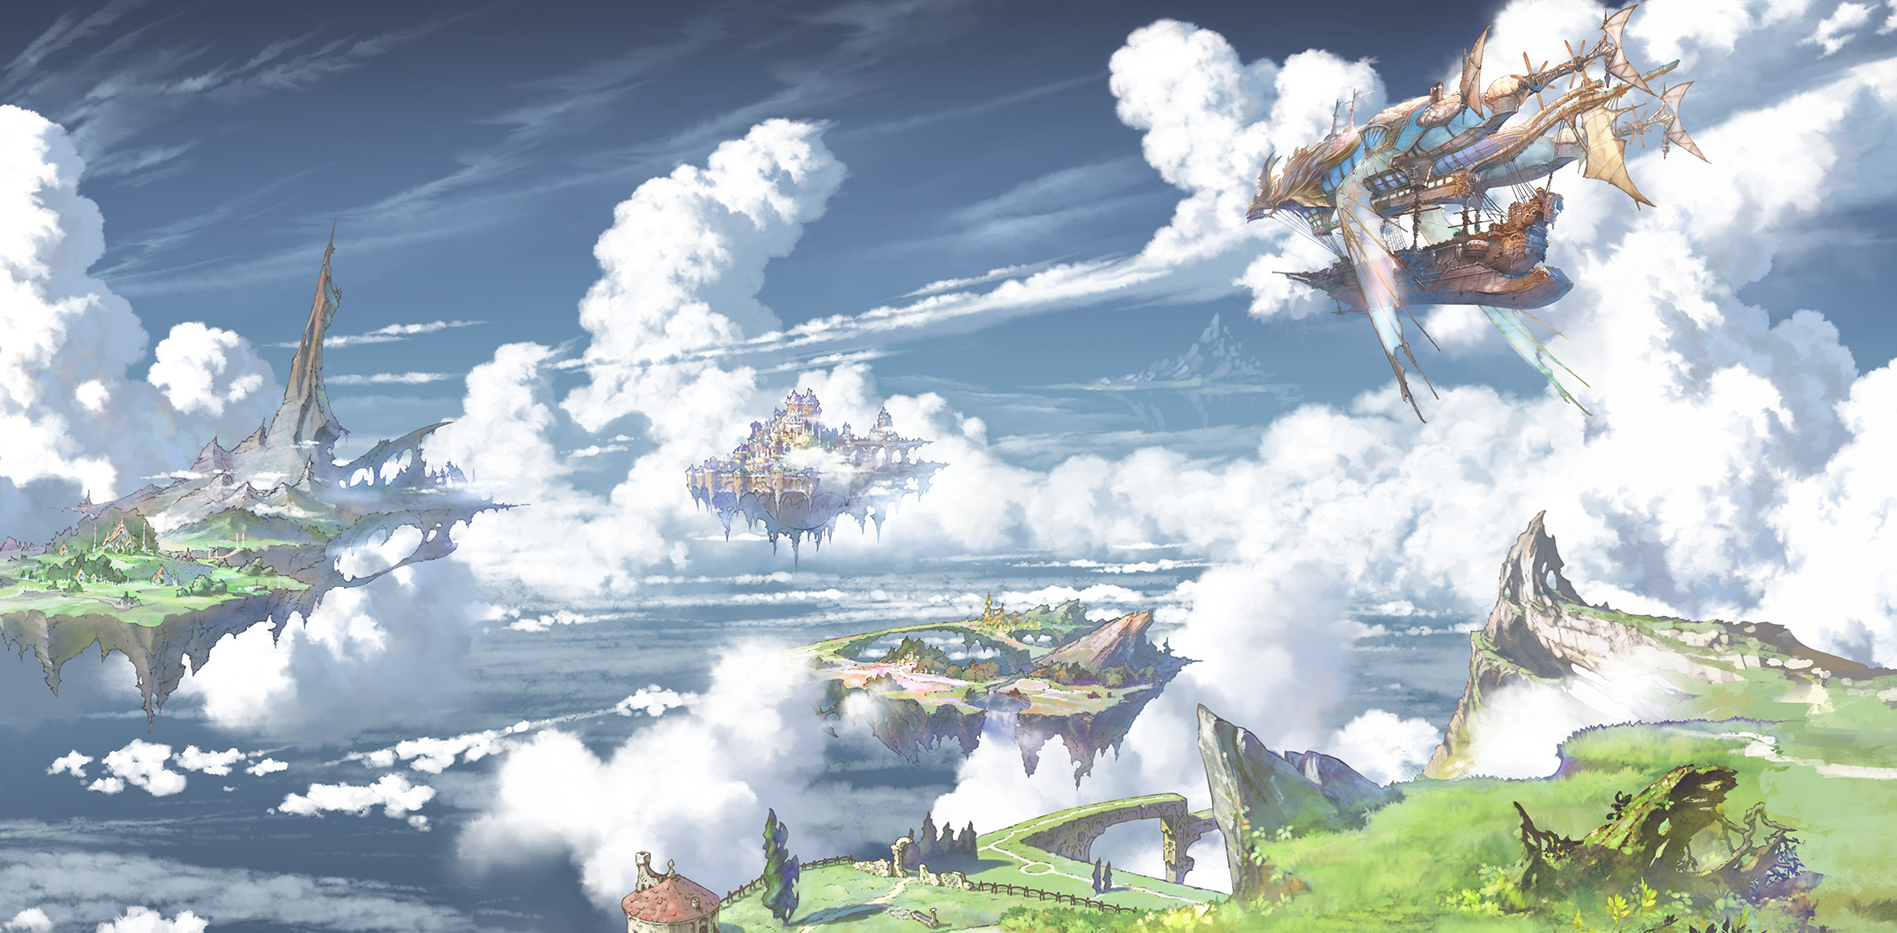
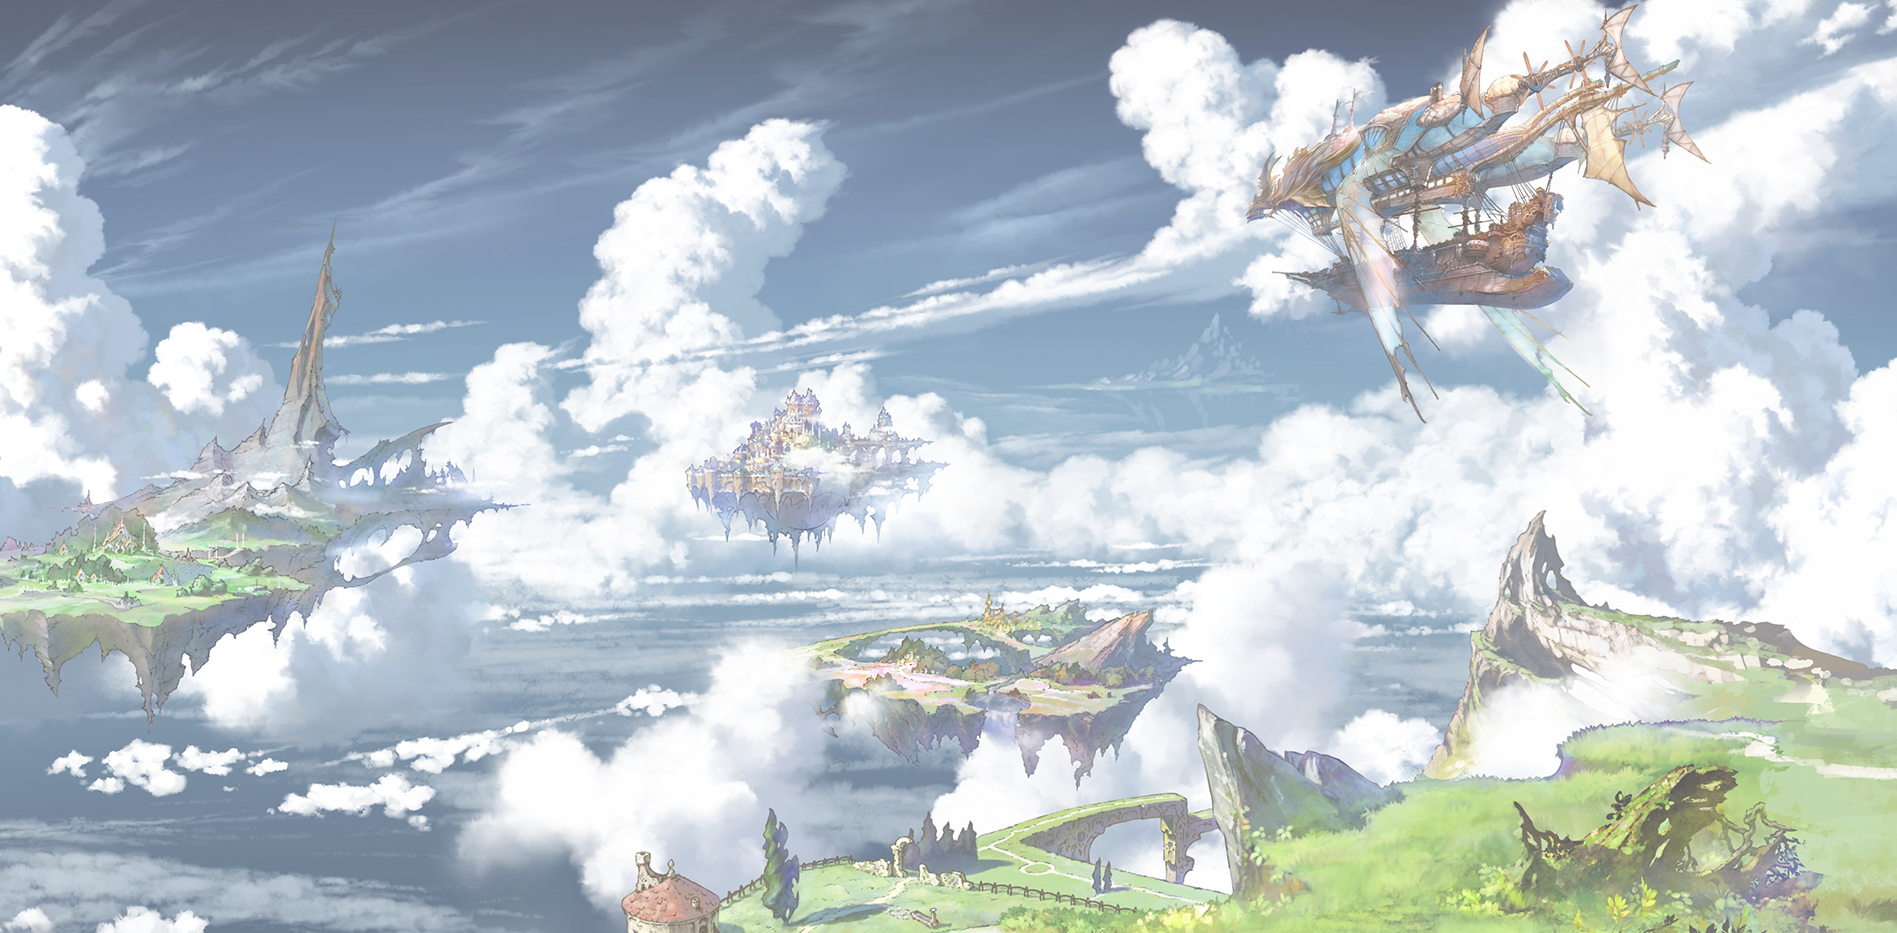
画像・その他もろもろの改修

diff --git a/docobluefantasy/WebContent/style.css b/docobluefantasy/WebContent/style.css
@@ -20,7 +20,7 @@ body {
   /*以下装飾*/
   margin:0;/*余計な隙間を除く*/
   font-size: 20px;/*文字サイズ*/
-  border: #000000 2px; /*線で囲う*/
+  border:solid #000000 2px; /*線で囲う*/
   padding: 7px;/*文字と線の間の余白*/
   color: #400080;/*文字色*/
   text-decoration: none;/*下線を表示させない*/
@@ -48,7 +48,7 @@ body {
   /*以下装飾*/
   margin:0;/*余計な隙間を除く*/
   font-size: 20px;/*文字サイズ*/
-  border: solid #000000 2px; /*線で囲う*/
+  border:solid #000000 2px; /*線で囲う*/
   padding: 7px;/*文字と線の間の余白*/
   color: #0000a0;/*文字色*/
   text-decoration: none;/*下線を表示させない*/
@@ -60,4 +60,36 @@ body {
 
 .example1 img {
   width: 100%;
+  }
+
+  .example2 {
+  position: relative;
+  }
+
+.example2 a {/*aタグを画像の真ん中に*/
+  position: absolute;
+  top: 80%;
+  left: 50%;
+  -ms-transform: translate(-50%,-50%);
+  -webkit-transform: translate(-50%,-50%);
+  transform: translate(-50%,-50%);
+  /*以下装飾*/
+  margin:0;/*余計な隙間を除く*/
+  font-size: 20px;/*文字サイズ*/
+  border: #000000 2px; /*線で囲う*/
+  padding: 7px;/*文字と線の間の余白*/
+  color: #400080;/*文字色*/
+  text-decoration: none;/*下線を表示させない*/
+  }
+
+.example2 a:hover{/*カーソルを当てたとき*/
+  background: rgba(00,153,255, 0.8);/*背景を半透明に*/
+  }
+
+.example2 img {
+  width: 100%;
+  }
+
+  .example2 {
+  position: relative;
   }

diff --git a/docobluefantasy/WebContent/reset.css b/docobluefantasy/WebContent/reset.css
@@ -1,0 +1,30 @@
+/* reset.css */
+
+html, body, div, span, applet, object, iframe,
+h1, h2, h3, h4, h5, h6, p, pre,
+a, address, big, code,
+em, font, img,
+small, strong,
+b, u, i,
+dl, dt, dd, ol, ul, li,
+form, label,
+table, caption, tbody, tfoot, thead, tr, th, td {
+	margin: 0;
+	padding: 0;
+	border: 0;
+	outline: 0;
+	font-size: 100%;
+	vertical-align: baseline;
+	background: transparent;
+}
+body {
+	line-height: 1;
+}
+ol, ul {
+	list-style: none;
+}
+
+table {
+	border-collapse: collapse;
+	border-spacing: 1;
+}
